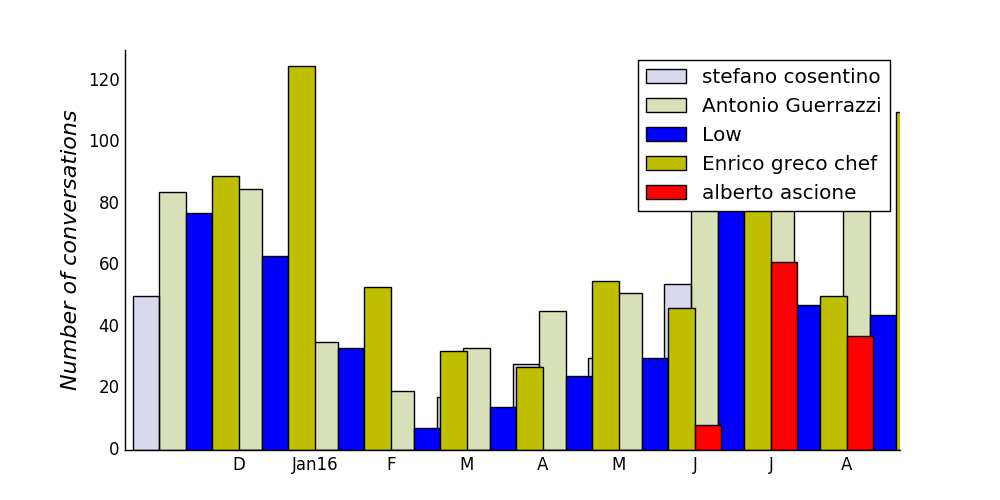
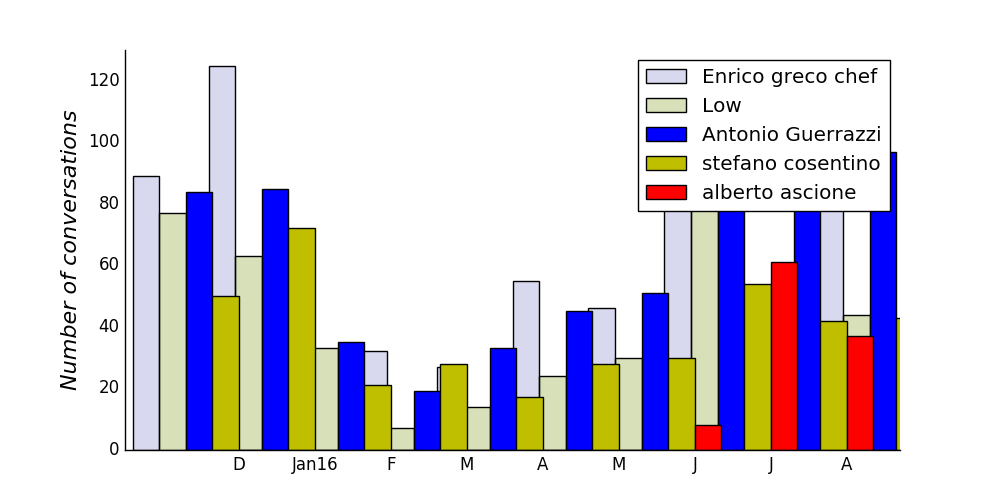
more of the same

Changed region(s): [[0.682, 0.12, 0.899, 0.66], [0.31, 0.42, 0.713, 0.87], [0.124, 0.12, 0.341, 0.6]]

diff --git a/OutputAnalysis.html b/OutputAnalysis.html
@@ -30,13 +30,13 @@
     <h1>This conversations has 5 users:</h1>
     <ul id="users">
     
-        <li>stefano cosentino</li>
-    
-        <li>Antonio Guerrazzi</li>
+        <li>Enrico greco chef</li>
     
         <li>Low</li>
     
-        <li>Enrico greco chef</li>
+        <li>Antonio Guerrazzi</li>
+    
+        <li>stefano cosentino</li>
     
         <li>alberto ascione</li>
     
@@ -51,13 +51,13 @@
     <h2>Yeee, but how quickly did you respond tho.</h2>
     <p>
         
-        <p>The median reaction time for stefano cosentino is 8.5 minutes</p>
-        
-        <p>The median reaction time for Antonio Guerrazzi is 14.5 minutes</p>
+        <p>The median reaction time for Enrico greco chef is 8.0 minutes</p>
         
         <p>The median reaction time for Low is 9.0 minutes</p>
         
-        <p>The median reaction time for Enrico greco chef is 8.0 minutes</p>
+        <p>The median reaction time for Antonio Guerrazzi is 14.5 minutes</p>
+        
+        <p>The median reaction time for stefano cosentino is 8.5 minutes</p>
         
         <p>The median reaction time for alberto ascione is 23.0 minutes</p>
         
@@ -65,13 +65,13 @@
     <h2>And, if you care about who started first the conversation...</h2>
     <p>
         
-        <p>stefano cosentino started a conversation 17 % of the times.</p>
-        
-        <p>Antonio Guerrazzi started a conversation 31 % of the times.</p>
+        <p>Enrico greco chef started a conversation 34 % of the times.</p>
         
         <p>Low started a conversation 12 % of the times.</p>
         
-        <p>Enrico greco chef started a conversation 34 % of the times.</p>
+        <p>Antonio Guerrazzi started a conversation 31 % of the times.</p>
+        
+        <p>stefano cosentino started a conversation 17 % of the times.</p>
         
         <p>alberto ascione started a conversation 6 % of the times.</p>
         
@@ -83,13 +83,13 @@
     <h1>Who sent more media files?</h1>
     <p>
         
-        <p>stefano cosentino sent 388 messages and 43 photos/videos.</p>
-        
-        <p>Antonio Guerrazzi sent 629 messages and 29 photos/videos.</p>
+        <p>Enrico greco chef sent 681 messages and 51 photos/videos.</p>
         
         <p>Low sent 422 messages and 81 photos/videos.</p>
         
-        <p>Enrico greco chef sent 681 messages and 51 photos/videos.</p>
+        <p>Antonio Guerrazzi sent 629 messages and 29 photos/videos.</p>
+        
+        <p>stefano cosentino sent 388 messages and 43 photos/videos.</p>
         
         <p>alberto ascione sent 185 messages and 40 photos/videos.</p>
         
@@ -103,20 +103,20 @@
     
     <h1>Distribution of words</h1>
     
-    <p>stefano cosentino:
-    <img src="stefano cosentino_wordle.png" alt="wordle for stefano cosentino" style="width:500px;height:500px;">
-    </p>
-    
-    <p>Antonio Guerrazzi:
-    <img src="Antonio Guerrazzi_wordle.png" alt="wordle for Antonio Guerrazzi" style="width:500px;height:500px;">
+    <p>Enrico greco chef:
+    <img src="Enrico greco chef_wordle.png" alt="wordle for Enrico greco chef" style="width:500px;height:500px;">
     </p>
     
     <p>Low:
     <img src="Low_wordle.png" alt="wordle for Low" style="width:500px;height:500px;">
     </p>
     
-    <p>Enrico greco chef:
-    <img src="Enrico greco chef_wordle.png" alt="wordle for Enrico greco chef" style="width:500px;height:500px;">
+    <p>Antonio Guerrazzi:
+    <img src="Antonio Guerrazzi_wordle.png" alt="wordle for Antonio Guerrazzi" style="width:500px;height:500px;">
+    </p>
+    
+    <p>stefano cosentino:
+    <img src="stefano cosentino_wordle.png" alt="wordle for stefano cosentino" style="width:500px;height:500px;">
     </p>
     
     <p>alberto ascione:
@@ -131,11 +131,7 @@
     <p>
         
         <p>
-            stefano cosentino jinxed first 0 times
-        </p>
-        
-        <p>
-            Antonio Guerrazzi jinxed first 0 times
+            Enrico greco chef jinxed first 0 times
         </p>
         
         <p>
@@ -143,7 +139,11 @@
         </p>
         
         <p>
-            Enrico greco chef jinxed first 0 times
+            Antonio Guerrazzi jinxed first 0 times
+        </p>
+        
+        <p>
+            stefano cosentino jinxed first 0 times
         </p>
         
         <p>
@@ -159,11 +159,7 @@
     <p>
         
         <p>
-            stefano cosentino used the word 'love' 0 times, and said 'I love you' 0 times, but also 'I hate you' 0 times.
-        </p>
-        
-        <p>
-            Antonio Guerrazzi used the word 'love' 3 times, and said 'I love you' 0 times, but also 'I hate you' 0 times.
+            Enrico greco chef used the word 'love' 0 times, and said 'I love you' 0 times, but also 'I hate you' 0 times.
         </p>
         
         <p>
@@ -171,7 +167,11 @@
         </p>
         
         <p>
-            Enrico greco chef used the word 'love' 0 times, and said 'I love you' 0 times, but also 'I hate you' 0 times.
+            Antonio Guerrazzi used the word 'love' 3 times, and said 'I love you' 0 times, but also 'I hate you' 0 times.
+        </p>
+        
+        <p>
+            stefano cosentino used the word 'love' 0 times, and said 'I love you' 0 times, but also 'I hate you' 0 times.
         </p>
         
         <p>
@@ -193,17 +193,17 @@
 	<p>And to be precise:</p>
     <p>
         
-        <p> stefano cosentino stretched words 0.0 % of the times with things like:</p>
-        <p> " guagliuuuu, ooooo, tsssss, alloraaaaaaaa, bertasciooooo ".</p>
-        
-        <p> Antonio Guerrazzi stretched words 0.01 % of the times with things like:</p>
-        <p> " oleeee, noooo, cancellll, eeeee, eeeeeeeh ".</p>
+        <p> Enrico greco chef stretched words 0.0 % of the times with things like:</p>
+        <p> " oooo, com/1669567666654452/videos/1742699322674619/, 10000, oooooo, ooooooooooooooooooooooo ".</p>
         
         <p> Low stretched words 0.01 % of the times with things like:</p>
-        <p> " ammoooo, uagliuuuuu, uahhhhh, gennyyyyyyyy, noooo ".</p>
+        <p> " ammoooo, uahhhhh, gennyyyyyyyy, uagliuuuuu, ammmooooo, ".</p>
         
-        <p> Enrico greco chef stretched words 0.0 % of the times with things like:</p>
-        <p> " oooo, ooooooooooooooooooooooo, com/1669567666654452/videos/1742699322674619/, oooooo, 10000 ".</p>
+        <p> Antonio Guerrazzi stretched words 0.01 % of the times with things like:</p>
+        <p> " oleeee, aeeee, suonnnn, eeeeeeeh, oooooooooo ".</p>
+        
+        <p> stefano cosentino stretched words 0.0 % of the times with things like:</p>
+        <p> " oooo, prooooo, ceeeeeerto, piiiiiisc, vaaaaaaa ".</p>
         
         <p> alberto ascione stretched words 0.0 % of the times with things like:</p>
         <p> " ***** ".</p>
@@ -249,18 +249,35 @@
     <ul id="users">
     
     <div style='float:left; width: 40%; margin-left:30px'>
-    <b>stefano cosentino</b>
+    <b>Enrico greco chef</b>
     <ol>
     
-    <li type="square">lo lo lo</li>
+    <li type="square">fin e sott</li>
     
-    <li type="square">mi fa piacere</li>
+    <li type="square">e sott a</li>
     
-    <li type="square">[ [ [</li>
+    <li type="square">n omm e</li>
     
-    <li type="square">un po di</li>
+    <li type="square">sott a tutt</li>
     
-    <li type="square">rispetto della persona</li>
+    <li type="square">meno male che</li>
+    
+    </ol>
+    </div>
+    
+    <div style='float:left; width: 40%; margin-left:30px'>
+    <b>Low</b>
+    <ol>
+    
+    <li type="square">grande voglio essere</li>
+    
+    <li type="square">da grande voglio</li>
+    
+    <li type="square">ce l hai</li>
+    
+    <li type="square">io ancora non</li>
+    
+    <li type="square">sono certo che</li>
     
     </ol>
     </div>
@@ -273,45 +290,28 @@
     
     <li type="square">da grande voglio</li>
     
-    <li type="square">prima della chiusura</li>
-    
-    <li type="square">grande voglio essere</li>
+    <li type="square">ole ole oleeee</li>
     
     <li type="square">ole ole ole</li>
     
-    </ol>
-    </div>
-    
-    <div style='float:left; width: 40%; margin-left:30px'>
-    <b>Low</b>
-    <ol>
-    
-    <li type="square">grande voglio essere</li>
-    
-    <li type="square">ce l hai</li>
-    
-    <li type="square">da grande voglio</li>
-    
-    <li type="square">"nun u da</li>
-    
-    <li type="square">sede d asta</li>
+    <li type="square">prima della chiusura</li>
     
     </ol>
     </div>
     
     <div style='float:left; width: 40%; margin-left:30px'>
-    <b>Enrico greco chef</b>
+    <b>stefano cosentino</b>
     <ol>
     
-    <li type="square">e sott a</li>
+    <li type="square">lo lo lo</li>
     
-    <li type="square">fin e sott</li>
+    <li type="square">[ [ [</li>
     
-    <li type="square">omm e nient</li>
+    <li type="square">mi fa piacere</li>
     
-    <li type="square">meno male che</li>
+    <li type="square">a quando non</li>
     
-    <li type="square">sott a tutt</li>
+    <li type="square">sono tutti a</li>
     
     </ol>
     </div>
@@ -322,13 +322,13 @@
     
     <li type="square">po po po</li>
     
-    <li type="square">lo lolo lo</li>
-    
     <li type="square">la responsabilit di</li>
     
-    <li type="square">come si gioca</li>
+    <li type="square">lo lolo lo</li>
     
     <li type="square">in questo gruppo</li>
+    
+    <li type="square">come si gioca</li>
     
     </ol>
     </div>

diff --git a/WhatChat_v2.py b/WhatChat_v2.py
@@ -643,6 +643,19 @@ os.system("open OutputAnalysis.html")
 # import pdfkit
 # with open('OutputAnalysis.html') as f:
 #     pdfkit.from_file(f, 'out.pdf')
+from PyQt5.QtGui import QTextDocument, QPrinter, QApplication
+import sys
+app = QApplication(sys.argv)
+doc = QTextDocument()
+location = "c://apython//Jim//html//notes.html"
+html = open(location).read()
+doc.setHtml(html)
+printer = QPrinter()
+printer.setOutputFileName("foo.pdf")
+printer.setOutputFormat(QPrinter.PdfFormat)
+printer.setPageSize(QPrinter.A4);
+printer.setPageMargins (15,15,15,15,QPrinter.Millimeter);
+doc.print_(printer)
 
 # To do:
 # Module to: Check how words are stretched as in informal conversations
